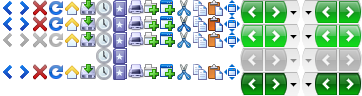
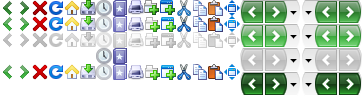
Bug 430384: tweak browser.css to use new dimensions of keyhole on windows xp & vista, patch by Dão Gottwald, r+a=mconnor

diff --git a/browser/themes/winstripe/browser/browser.css b/browser/themes/winstripe/browser/browser.css
@@ -234,31 +234,31 @@ toolbar[mode="icons"] #back-button {
 }
 
 toolbar[iconsize="large"][mode="icons"] #back-button {
-  -moz-image-region: rect(0px 398px 34px 360px);
+  -moz-image-region: rect(0px 396px 34px 360px);
 }
 toolbar[iconsize="large"][mode="icons"] #back-button:not([disabled="true"]):hover {
-  -moz-image-region: rect(34px 398px 68px 360px);
+  -moz-image-region: rect(34px 396px 68px 360px);
 }
 toolbar[iconsize="large"][mode="icons"] #back-button[disabled="true"] {
-  -moz-image-region: rect(68px 398px 102px 360px);
+  -moz-image-region: rect(68px 396px 102px 360px);
 }
 toolbar[iconsize="large"][mode="icons"] #back-button:not([disabled="true"]):hover:active {
-  -moz-image-region: rect(102px 398px 136px 360px);
+  -moz-image-region: rect(102px 396px 136px 360px);
 }
 
 /* unified back button with keyhole icons, RTL version */
 
 toolbar[iconsize="large"][mode="icons"] #back-button[chromedir="rtl"] {
-  -moz-image-region: rect(0px 516px 34px 478px);
+  -moz-image-region: rect(0px 516px 34px 480px);
 }
 toolbar[iconsize="large"][mode="icons"] #back-button[chromedir="rtl"]:not([disabled="true"]):hover {
-  -moz-image-region: rect(34px 516px 68px 478px);
+  -moz-image-region: rect(34px 516px 68px 480px);
 }
 toolbar[iconsize="large"][mode="icons"] #back-button[chromedir="rtl"][disabled="true"] {
-  -moz-image-region: rect(68px 516px 102px 478px);
+  -moz-image-region: rect(68px 516px 102px 480px);
 }
 toolbar[iconsize="large"][mode="icons"] #back-button[chromedir="rtl"]:not([disabled="true"]):hover:active {
-  -moz-image-region: rect(102px 516px 136px 478px);
+  -moz-image-region: rect(102px 516px 136px 480px);
 }
 
 /* unified forward button with keyhole icons */
@@ -270,31 +270,31 @@ toolbar[mode="icons"] #forward-button {
 }
 
 toolbar[iconsize="large"][mode="icons"] #forward-button {
-  -moz-image-region: rect(3px 424px 31px 398px);
+  -moz-image-region: rect(3px 422px 31px 396px);
 }
 toolbar[iconsize="large"][mode="icons"] #forward-button:not([disabled="true"]):hover {
-  -moz-image-region: rect(37px 424px 65px 398px);
+  -moz-image-region: rect(37px 422px 65px 396px);
 }
 toolbar[iconsize="large"][mode="icons"] #forward-button[disabled="true"] {
-  -moz-image-region: rect(71px 424px 99px 398px);
+  -moz-image-region: rect(71px 422px 99px 396px);
 }
 toolbar[iconsize="large"][mode="icons"] #forward-button:not([disabled="true"]):hover:active {
-  -moz-image-region: rect(105px 424px 133px 398px);
+  -moz-image-region: rect(105px 422px 133px 396px);
 }
 
 /* unified forward button with keyhole icons, RTL version */
 
 toolbar[iconsize="large"][mode="icons"] #forward-button[chromedir="rtl"] {
-  -moz-image-region: rect(3px 478px 31px 452px);
+  -moz-image-region: rect(3px 480px 31px 454px);
 }
 toolbar[iconsize="large"][mode="icons"] #forward-button[chromedir="rtl"]:not([disabled="true"]):hover {
-  -moz-image-region: rect(37px 478px 65px 452px);
+  -moz-image-region: rect(37px 480px 65px 454px);
 }
 toolbar[iconsize="large"][mode="icons"] #forward-button[chromedir="rtl"][disabled="true"] {
-  -moz-image-region: rect(71px 478px 99px 452px);
+  -moz-image-region: rect(71px 480px 99px 454px);
 }
 toolbar[iconsize="large"][mode="icons"] #forward-button[chromedir="rtl"]:not([disabled="true"]):hover:active {
-  -moz-image-region: rect(105px 478px 133px 452px);
+  -moz-image-region: rect(105px 480px 133px 454px);
 }
 
 /* dropmarker for unified back and forward buttons with keyhole icons */
@@ -317,31 +317,31 @@ toolbar[mode="icons"] #back-forward-dropmarker > dropmarker {
 
 toolbar[iconsize="large"][mode="icons"] #back-forward-dropmarker {
   list-style-image: url("chrome://browser/skin/Toolbar.png");
-  -moz-image-region: rect(3px 438px 31px 424px);
+  -moz-image-region: rect(3px 438px 31px 422px);
 }
 toolbar[iconsize="large"][mode="icons"] #back-forward-dropmarker:not([disabled="true"]):hover {
-  -moz-image-region: rect(37px 438px 65px 424px);
+  -moz-image-region: rect(37px 438px 65px 422px);
 }
 toolbar[iconsize="large"][mode="icons"] #back-forward-dropmarker[disabled="true"] {
-  -moz-image-region: rect(71px 438px 99px 424px);
+  -moz-image-region: rect(71px 438px 99px 422px);
 }
 toolbar[iconsize="large"][mode="icons"] #back-forward-dropmarker:not([disabled="true"]):hover:active {
-  -moz-image-region: rect(105px 438px 133px 424px);
+  -moz-image-region: rect(105px 438px 133px 422px);
 }
 
 /* unified dropmarker with keyhole icons, RTL version */
 
 toolbar[iconsize="large"][mode="icons"] #back-forward-dropmarker[chromedir="rtl"] {
-  -moz-image-region: rect(3px 452px 31px 438px);
+  -moz-image-region: rect(3px 454px 31px 438px);
 }
 toolbar[iconsize="large"][mode="icons"] #back-forward-dropmarker[chromedir="rtl"]:not([disabled="true"]):hover {
-  -moz-image-region: rect(37px 452px 65px 438px);
+  -moz-image-region: rect(37px 454px 65px 438px);
 }
 toolbar[iconsize="large"][mode="icons"] #back-forward-dropmarker[chromedir="rtl"][disabled="true"] {
-  -moz-image-region: rect(71px 452px 99px 438px);
+  -moz-image-region: rect(71px 454px 99px 438px);
 }
 toolbar[iconsize="large"][mode="icons"] #back-forward-dropmarker[chromedir="rtl"]:not([disabled="true"]):hover:active {
-  -moz-image-region: rect(105px 452px 133px 438px);
+  -moz-image-region: rect(105px 454px 133px 438px);
 }
 
 /* ::::: unified back and forward buttons, small icons mode ::::: */
